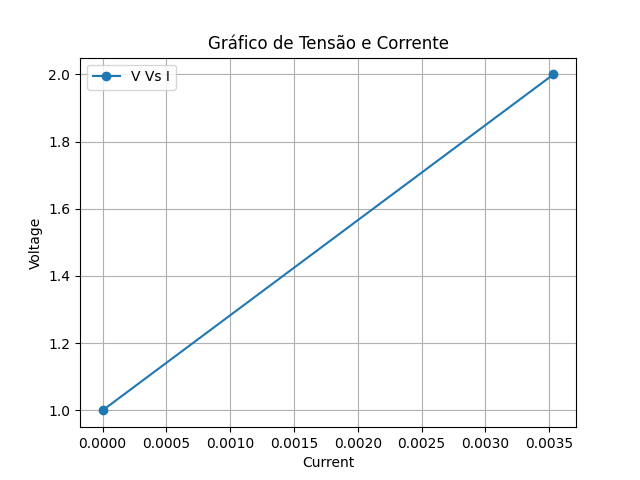
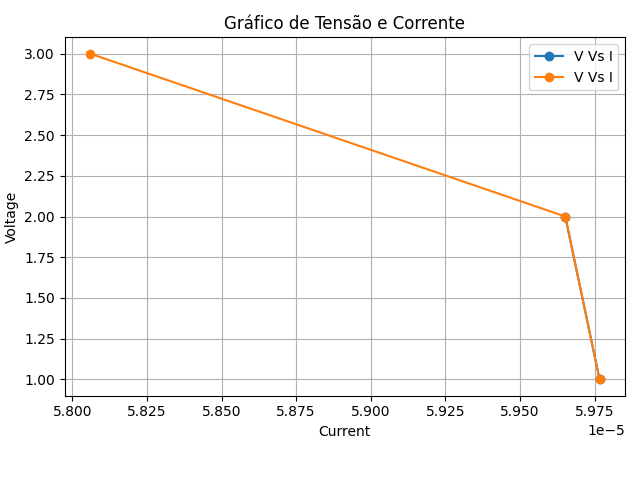
update error capacitor 74595

diff --git a/webserver/website/templates/meiaonda.html b/webserver/website/templates/meiaonda.html
@@ -120,10 +120,10 @@ Remember to set the width: -->
       document.getElementById("selectC").disabled = false;
       document.getElementById("selectR").disabled = false;
       // Redirecionar para a rota com o parâmetro
-      //const booleanParameter = true;
-      //const url =
-      //  "/config_meiaonda?habilitar_parameter=" + booleanParameter.toString();
-      //fetch(url);
+      const booleanParameter = true;
+      const url =
+        "/config_meiaonda?habilitar_parameter=" + booleanParameter.toString();
+      fetch(url);
     }
   </script>
   <script>
@@ -156,9 +156,6 @@ Remember to set the width: -->
         const Capacitor = document.getElementById("selectC").value;
         const Resistance = document.getElementById("selectR").value;
         const valorfreq = document.getElementById("input_freq").value;
-        console.log("valorfreq = ", valorfreq);
-        console.log("C = ", Capacitor);
-        console.log("R = ", Resistance);
 
         // Validar valores antes do fetch
         if (

diff --git a/ctrl_hardware/mixed_signal_oscilloscope.py b/ctrl_hardware/mixed_signal_oscilloscope.py
@@ -31,8 +31,6 @@ import matplotlib.pyplot as plt
 from matplotlib.ticker import EngFormatter
 import numpy as np
 
-import store_ps_dmm
-
 import os, sys
 
 
@@ -46,23 +44,11 @@ import os, sys
 def config_func_generator(frequency:float):
     try:
         virtualbench = PyVirtualBench('VB8012-30A210F')
-                
         # Waveform Configuration
         waveform_function = Waveform.SINE
         amplitude = 10.0      # 10V
         dc_offset = 0.0       # 0V
         duty_cycle = 50.0     # 50% (Used for Square and Triangle waveforms)
-
-        #############################
-        # Power Supply Configuration
-        #############################
-        ps = virtualbench.acquire_power_supply()
-        ps.enable_all_outputs(False)
-        channel = "ps/+25V"
-        voltage_level = 12.0
-        current_limit = 0.5 
-        ps.enable_all_outputs(True)
-        ps.configure_voltage_output(channel, voltage_level, current_limit)
 
         # You will probably need to replace "myVirtualBench" with the name of your device.
         # By default, the device name is the model number and serial number separated by a hyphen; e.g., "VB8012-309738A".
@@ -72,6 +58,45 @@ def config_func_generator(frequency:float):
         fgen.configure_standard_waveform(waveform_function, amplitude, dc_offset, frequency, duty_cycle)
         # Start driving the signal. The waveform will continue until Stop is called, even if you close the session.
         fgen.run()
+        
+        #############################
+        # Power Supply Configuration
+        #############################
+        ps = virtualbench.acquire_power_supply()
+        channel = "ps/+25V"
+        voltage_level = 12.0
+        current_limit = 0.5 
+        ps.enable_all_outputs(True)
+        ps.configure_voltage_output(channel, voltage_level, current_limit)        
+        
+        mso = virtualbench.acquire_mixed_signal_oscilloscope()
+
+        # Configure the acquisition using auto setup
+        mso.auto_setup()
+
+        # Query the configuration that was chosen to properly interpret the data.
+        sample_rate, acquisition_time, pretrigger_time, sampling_mode = mso.query_timing()
+        channels = mso.query_enabled_analog_channels()
+        channels_enabled, number_of_channels = virtualbench.collapse_channel_string(channels)
+        if channels_enabled == "VB8012-30A210F/mso/1:2":
+            channels_numbers = 12 # Ambos os canais estão activos
+        elif channels_enabled == "VB8012-30A210F/mso/1":
+            channels_numbers = 1 #Somente o canal 1 está activo
+        elif channels_enabled == "VB8012-30A210F/mso/2":
+            channels_numbers = 2 # Somente o canal 2 está activo
+
+        # Start the acquisition.  Auto triggering is enabled to catch a misconfigured trigger condition.
+        mso.run()
+
+        # Read the data by first querying how big the data needs to be, allocating the memory, and finally performing the read.
+        analog_data, analog_data_stride, analog_t0, digital_data, digital_timestamps, digital_t0, trigger_timestamp, trigger_reason = mso.read_analog_digital_u64()
+
+        analog_data_size = len(analog_data)
+        number_of_analog_samples_acquired = analog_data_size / analog_data_stride
+        plot_graphic(analog_data, number_of_analog_samples_acquired, channels_numbers, frequency)
+        #print_digital_data(digital_data, digital_timestamps, 10)
+        ps.release()
+        mso.release()
         fgen.release()
     except PyVirtualBenchException as e:
         print("Error/Warning %d occurred\n%s" % (e.status, e))
@@ -165,46 +190,3 @@ def plot_graphic(analog_data, number_of_analog_samples_acquired, channels_number
 
     # Limpa a figura
     plt.clf()
-
-def config_signal_oscilloscope(frequency:float):
-    # This examples demonstrates how to configure and acquire data from the
-    # Mixed Signal Oscilloscope (MSO) instrument on a VirtualBench using
-    # the built in auto setup functionality.
-    try:
-        # You will probably need to replace "myVirtualBench" with the name of your device.
-        # By default, the device name is the model number and serial number separated by a hyphen; e.g., "VB8012-309738A".
-        # You can see the device's name in the VirtualBench Application under File->About
-        virtualbench = PyVirtualBench('VB8012-30A210F')
-        mso = virtualbench.acquire_mixed_signal_oscilloscope()
-
-        # Configure the acquisition using auto setup
-        mso.auto_setup()
-
-        # Query the configuration that was chosen to properly interpret the data.
-        sample_rate, acquisition_time, pretrigger_time, sampling_mode = mso.query_timing()
-        channels = mso.query_enabled_analog_channels()
-        channels_enabled, number_of_channels = virtualbench.collapse_channel_string(channels)
-        if channels_enabled == "VB8012-30A210F/mso/1:2":
-            channels_numbers = 12 # Ambos os canais estão activos
-        elif channels_enabled == "VB8012-30A210F/mso/1":
-            channels_numbers = 1 #Somente o canal 1 está activo
-        elif channels_enabled == "VB8012-30A210F/mso/2":
-            channels_numbers = 2 # Somente o canal 2 está activo
-
-        # Start the acquisition.  Auto triggering is enabled to catch a misconfigured trigger condition.
-        mso.run()
-
-        # Read the data by first querying how big the data needs to be, allocating the memory, and finally performing the read.
-        analog_data, analog_data_stride, analog_t0, digital_data, digital_timestamps, digital_t0, trigger_timestamp, trigger_reason = mso.read_analog_digital_u64()
-
-        analog_data_size = len(analog_data)
-        number_of_analog_samples_acquired = analog_data_size / analog_data_stride
-        plot_graphic(analog_data, number_of_analog_samples_acquired, channels_numbers, frequency)
-        #print_digital_data(digital_data, digital_timestamps, 10)
-
-        mso.release()
-    except PyVirtualBenchException as e:
-        print("Error/Warning %d occurred\n%s" % (e.status, e))
-    finally:
-        virtualbench.release()
-        

diff --git a/webserver/website/views.py b/webserver/website/views.py
@@ -12,7 +12,7 @@ parent_dir = os.path.dirname(os.path.dirname(current_dir))
 sys.path.append(parent_dir)
 
 #from configVB import config_VB_DMM
-from ctrl_hardware import configRelays, configVB, configFGen, mixed_signal_oscilloscope
+from ctrl_hardware import configRelays, configVB, mixed_signal_oscilloscope
 
 views = Blueprint('views', __name__)
 
@@ -81,8 +81,12 @@ def config_meiaonda():
         Capacitor = request.args.get('C', 0, int)
         Resistance = request.args.get('R', 0, int)
         frequency = request.args.get('f', 0, float)
+        configOK = request.args.get('habilitar_parameter', None, bool)
+        configSTOP = request.args.get('desabilitar_parameter', None, bool)
+        configOK = True
+        print("configOK", configOK)
+
         #print (Capacitor, Resistance, frequency)
-        
         
         # Colocar os relés a zero
         configRelays.config_relays_meiaonda(0, 0)
@@ -92,7 +96,7 @@ def config_meiaonda():
             configRelays.config_relays_meiaonda(Resistance, Capacitor)
             time.sleep(2)
             mixed_signal_oscilloscope.config_func_generator(frequency)
-            mixed_signal_oscilloscope.config_signal_oscilloscope(frequency)
+            #mixed_signal_oscilloscope.config_signal_oscilloscope(frequency)
                         
             # Execute o comando diretamente
             # Explicar porque se usou este comando

diff --git a/ctrl_hardware/configVB.py b/ctrl_hardware/configVB.py
@@ -74,16 +74,17 @@ def test_parameters(Vcc:int, R:int, measure_parameter:str, configOK:bool, config
         current_limit = 0.5 
         ps.enable_all_outputs(True)
         ps.configure_voltage_output(channel, voltage_level, current_limit)
+
         print("PS,DMM", ps, dmm )
     if (Vcc == 0 and R == 0 and measure_parameter is None and configOK is None and configSTOP is True):
-        try:
+        try: #Acho que este try não é preciso
             print("STOP")
             #Chama a função que desliga fonte de alimentação e multímetro
             ps, dmm = store_ps_dmm.get_values()  
+            ps.enable_all_outputs(False)
             ps.release()
             dmm.release()
             virtualbench.release()
-            store_ps_dmm.clear_values()
             measurement_result = None
         except PyVirtualBenchException as e:
             print("Error/Warning %d occurred\n%s" % (e.status, e))

diff --git a/ctrl_hardware/store_ps_dmm.py b/ctrl_hardware/store_ps_dmm.py
@@ -1,6 +1,9 @@
-import matplotlib.pyplot as plt
+##################################
+# Dois scripts diferentes não conseguem aceder aos mesmos valores e variáveis 
+# porque cada script tem o seu próprio espaço de nomes. (memória)
+##################################
+
 import numpy as np
-from scipy import stats
 
 # Arquivo para armazenar os valores ps e dmm
 # Não esquecer de documentar a escolha do módulo para manter e aceder aos valores de ps e dmm
@@ -64,11 +67,3 @@ def voltage_values():
 
 def current_values():
     return current_measurements
-
-#def fgen():
-#    global ps, dmm
-#    ps = None
-#    dmm = None
-#    virtualbench = None
-
-

diff --git a/ctrl_hardware/shift_register.py b/ctrl_hardware/shift_register.py
@@ -100,6 +100,12 @@ def register_clear ():
     request.set_value(SRCLK,OFF) #GPIO.output(SRCLK, 0)
     time.sleep(WaitTimeSR) # espera 100ms
     request.set_value(SRCLK,ON) #GPIO.output(SRCLK, 1)
+sadakdsa
+oksado
+oaskdo
+sdakoa
+asodkaods
+oskdosakdoasdoak
 
 # Armazenar o valor no registo
 def OutputReg ():
